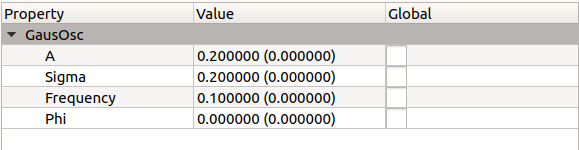
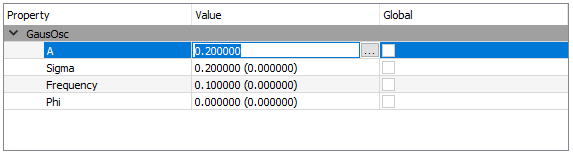
Make review changes to documentation.

Changed region(s): [[0.0, 0.0, 1.0, 0.9867], [0.0593, 0.7467, 0.1187, 0.8267]]

diff --git a/docs/source/interfaces/muon/muon_corrections_tab.rst b/docs/source/interfaces/muon/muon_corrections_tab.rst
@@ -30,14 +30,14 @@ Background Corrections
 **Background** There are three background correction options:
 
 * ``None``: No background correction should be applied.
-* ``Auto``: The background is automatically calculated by performing a fit on the loaded data before being subtracted from the data. The diagram below describes this process.
+* ``Auto``: The background is automatically calculated by performing a fit on the loaded data before being subtracted from the data. The accompanying diagram describes this process.
 * ``Manual``: The background is entered manually by the user before being subtracted from the data.
 
 .. image::  ../../images/muon_auto_corrections_flowchart.PNG
    :align: right
    :height: 400px
 
-**Select Function** This is only available when in ``Auto`` mode. It allows you to choose between using a ``Flat Background + Exp Decay``, or just a ``Flat Background`` to calculate the background. The Lambda value in the Exp Decay is fixed to a value of roughly 1.0/2.2.
+**Select Function** This is only available when in ``Auto`` mode. It allows you to choose between using a ``Flat Background + Exp Decay``, or just a ``Flat Background`` to calculate the background. The Lambda value in the Exp Decay is fixed to a value of 1.0 over the muon lifetime.
 
 **Show data for** There are two options for selecting which data should be displayed:
 

diff --git a/docs/source/interfaces/muon/muon_fitting_tab.rst b/docs/source/interfaces/muon/muon_fitting_tab.rst
@@ -32,8 +32,8 @@ Right clicking in the central box will bring up a context menu for adding or rem
 
 **Property** This is a list of property names, individual functions can be collapsed down for greater legibility.
 
-**Value** This lists the initial guesses for variables within fitting functions.Variables can be fixed for a given fit
-from the edit paramiter values dialog box (the ellipsis to the right of the value box).
+**Value** This lists the initial guesses for variables within fitting functions. Variables can be fixed for a given fit
+from the edit parameter values dialog box (click the ellipsis to the right of the value box).
 
 **Global** If we are performing a simultaneous fit, parameters for each workspace in the fit can be tied by checking this box.
 

diff --git a/docs/source/interfaces/muon/muon_model_fitting_tab.rst b/docs/source/interfaces/muon/muon_model_fitting_tab.rst
@@ -35,8 +35,8 @@ Right clicking in the central box will bring up a context menu for adding or rem
 
 **Property** This is a list of property names, individual functions can be collapsed down for greater legibility.
 
-**Value** This lists the initial guesses for variables within fitting functions.Variables can be fixed for a given fit
-from the edit paramiter values dialog box (the ellipsis to the right of the value box).
+**Value** This lists the initial guesses for variables within fitting functions. Variables can be fixed for a given fit
+from the edit parameter values dialog box (click the ellipsis to the right of the value box).
 
 Fit properties browser
 ^^^^^^^^^^^^^^^^^^^^^^

diff --git a/docs/source/interfaces/muon/muon_sequential_fitting_tab.rst b/docs/source/interfaces/muon/muon_sequential_fitting_tab.rst
@@ -17,7 +17,7 @@ Sequential fitting options
 
 **Fit selected** Performs a fit on the fit object selected in the table.
 
-**Filter by** This is only available on the Frequency Domain Analysis interface. It allows you to select the type of data you want to sequential fit.
+**Filter by** This is only available on the Frequency Domain Analysis interface. It allows you to select the type of data you want to sequentially fit.
 
 **Parameters for previous fit** Uses the parameters from the previous fit calculation as initial values for the next fit.
 
